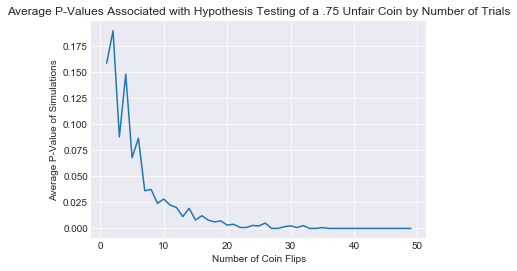
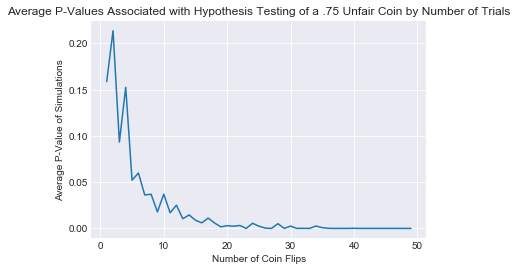
ran cells in correct order

Changed region(s): [[0.0928, 0.1476, 0.619, 0.8561], [0.1238, 0.8266, 0.1857, 0.8561], [0.1238, 0.738, 0.1857, 0.7675]]

diff --git a/README.md b/README.md
@@ -88,7 +88,7 @@ coin1
 
 
 
-    10
+    15
 
 
 
@@ -128,7 +128,7 @@ z
 
 
 
-    0.0
+    10.0
 
 
 
@@ -141,7 +141,7 @@ z
 
 
 
-    0.0
+    10.0
 
 
 
@@ -160,7 +160,7 @@ st.norm.sf(np.abs(z))
 
 
 
-    0.5
+    7.61985302416047e-24
 
 
 
